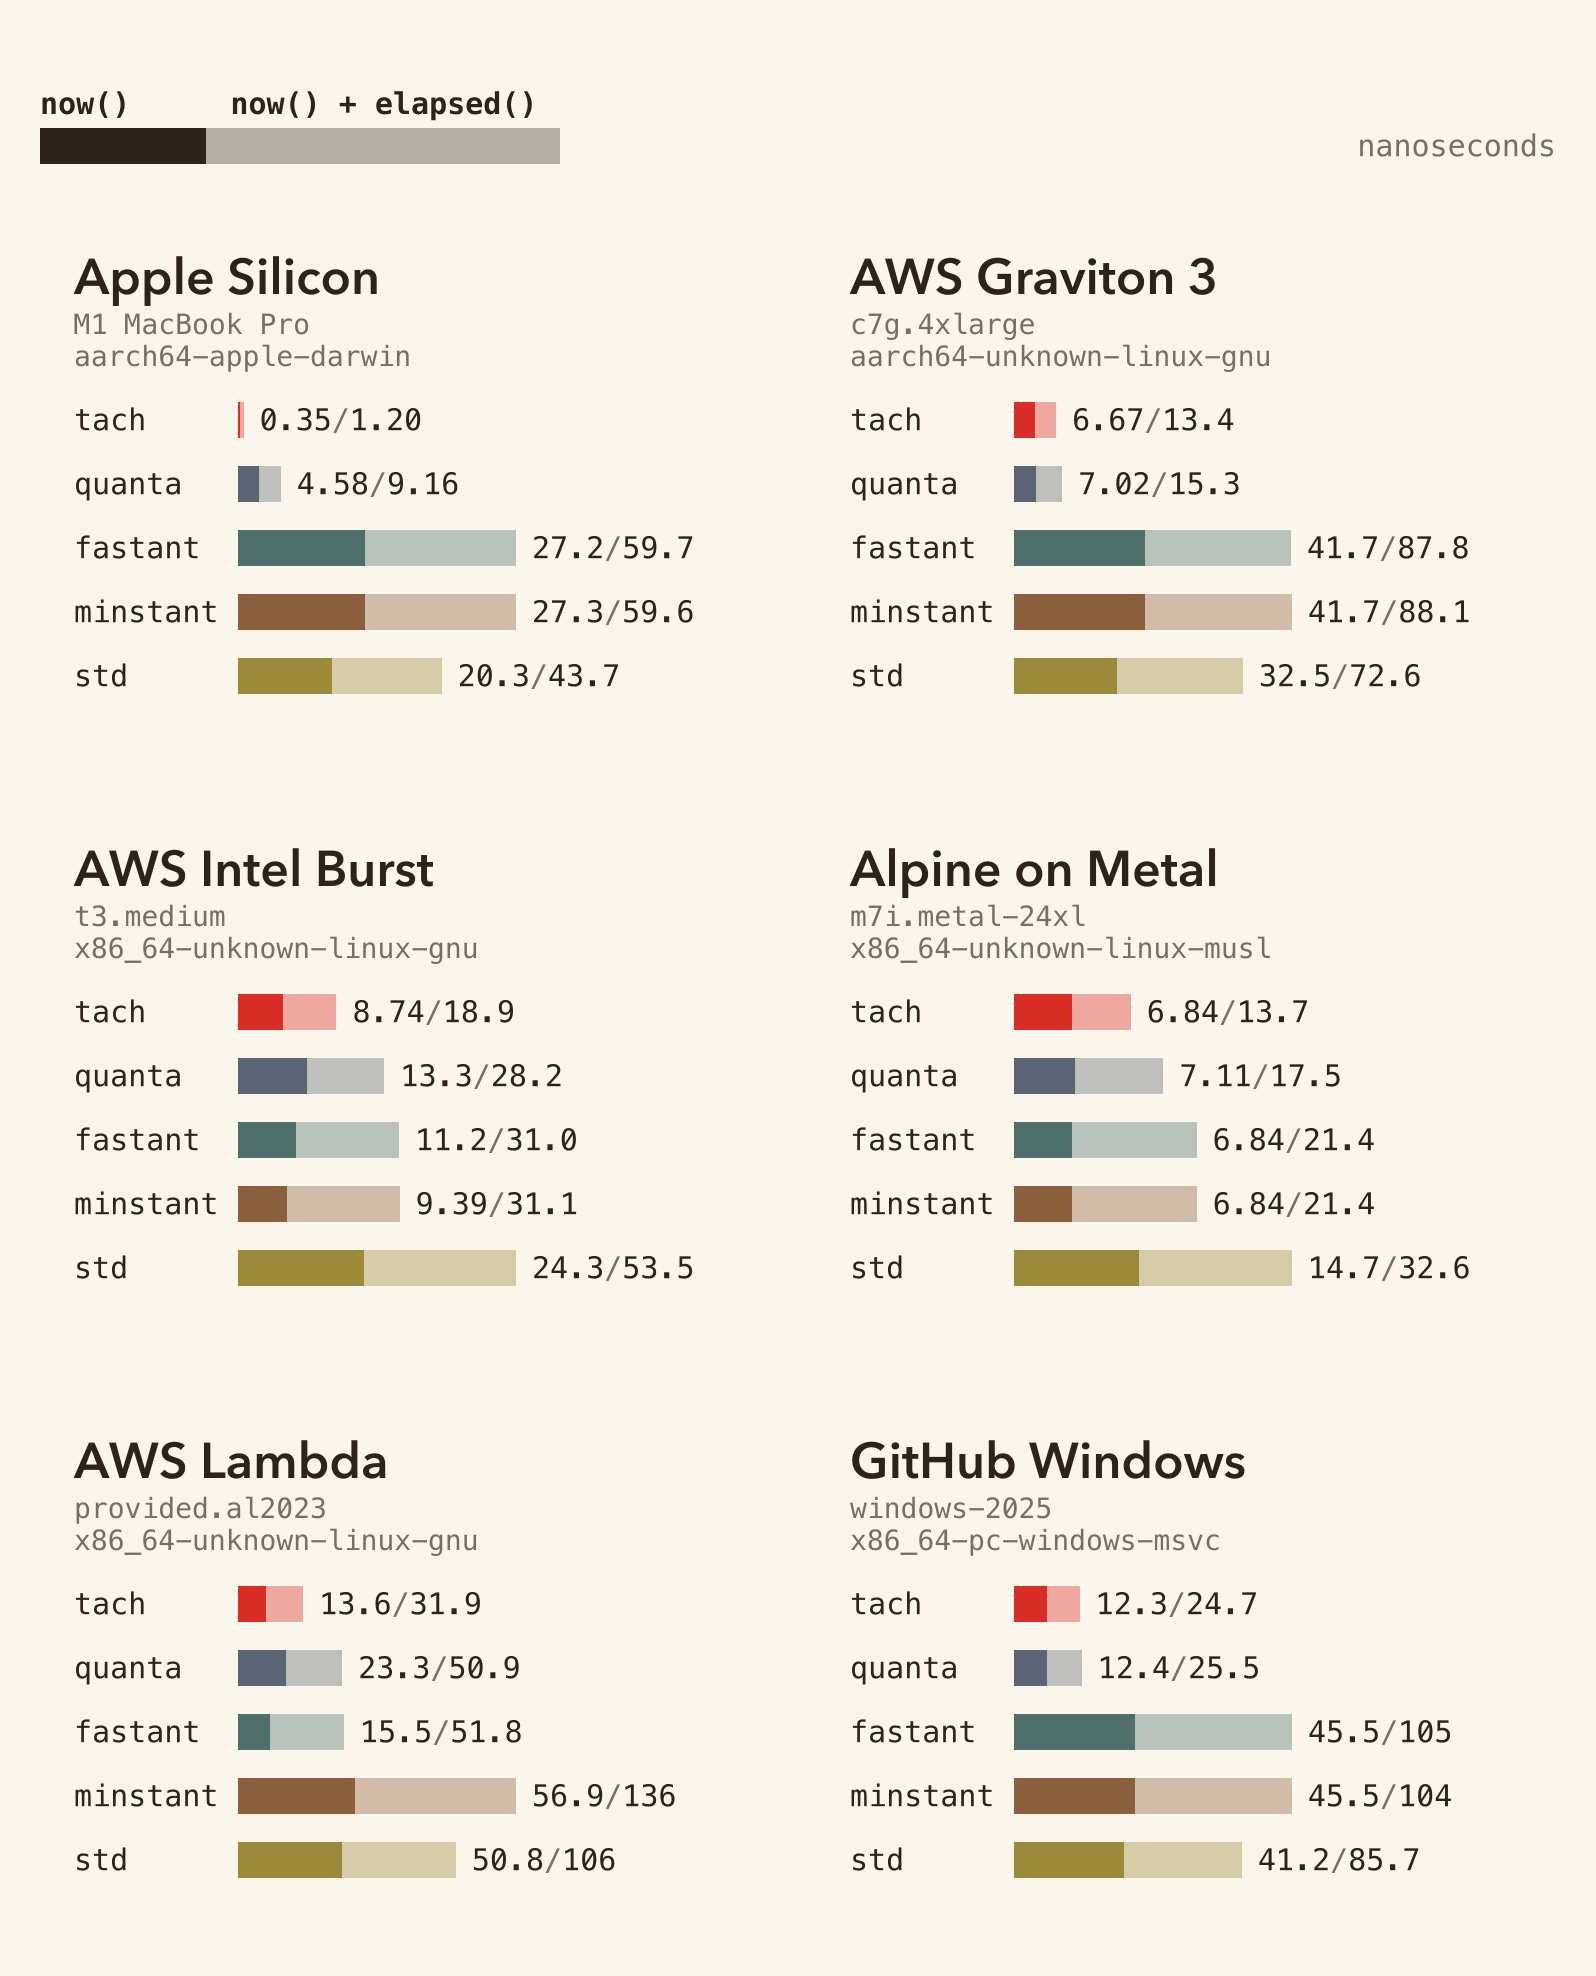
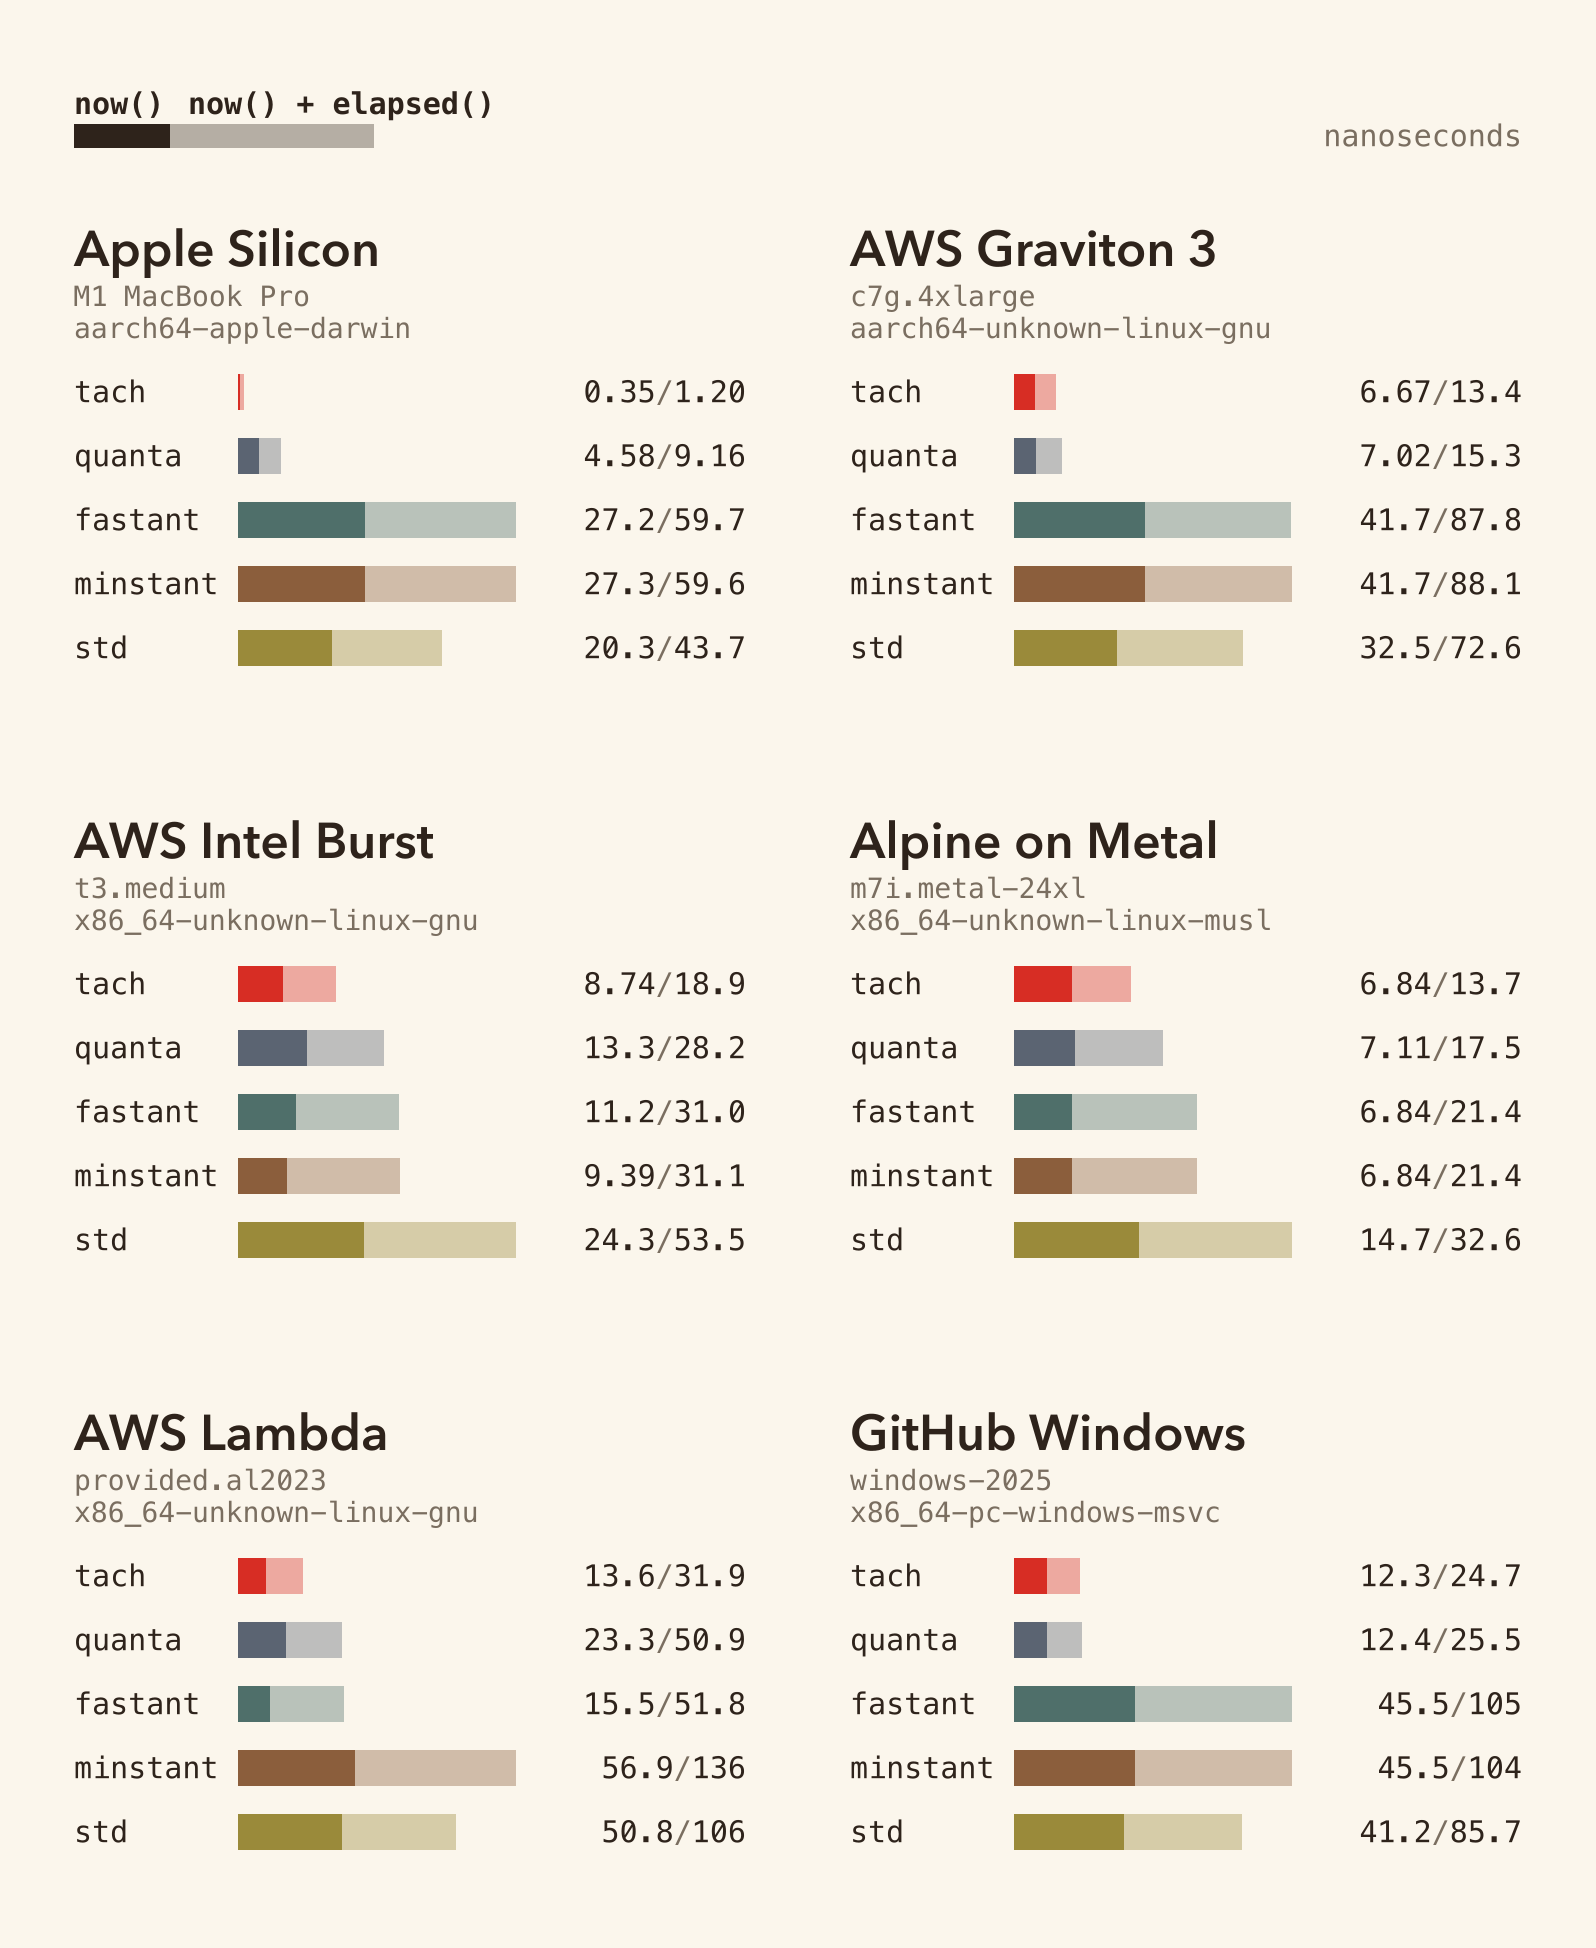
docs(benches): right-align metric values, align legend to cell content edges
- Values right-aligned to the cell content right edge so the
  numeric column lines up across all rows.
- Header "now()" label and "nanoseconds" right edge now align
  with the cell-content margins (not the outer SVG margin).
- Legend sample bar shrunk: 520x36 -> 300x24.

diff --git a/benches/assets/render_benchmark.py b/benches/assets/render_benchmark.py
@@ -243,12 +243,12 @@ GRID_CRATE_LABEL_WIDTH = 156
 GRID_VALUE_RESERVE = 230
 GRID_LIGHTEN = 0.62
 
-GRID_HEADER_HEIGHT = 140
-GRID_HEADER_GAP = 32
-GRID_HEADER_BAR_WIDTH = 520
-GRID_HEADER_BAR_HEIGHT = 36
+GRID_HEADER_HEIGHT = 120
+GRID_HEADER_GAP = 24
+GRID_HEADER_BAR_WIDTH = 300
+GRID_HEADER_BAR_HEIGHT = 24
 GRID_HEADER_DARK_FRACTION = 0.32
-GRID_HEADER_LABEL_GAP = 14
+GRID_HEADER_LABEL_GAP = 10
 
 
 def lighten(hex_color: str, amount: float) -> str:
@@ -342,9 +342,9 @@ def render_grid_cell(now_group, elapsed_group, crates, x0: float, y0: float) -> 
       f'width="{now_w:g}" height="{GRID_BAR_HEIGHT}" fill="{color}"/>'
     )
 
-    value_x = bar_area_left + elapsed_w + 16
+    value_x = x0 + GRID_CELL_W - GRID_CELL_PAD
     parts.append(
-      f'<text x="{value_x:g}" y="{text_baseline:g}" text-anchor="start" '
+      f'<text x="{value_x:g}" y="{text_baseline:g}" text-anchor="end" '
       f'font-family="{MONO}" font-size="{GRID_VALUE_FONT_SIZE}" fill="{TEXT_FG}">'
       f'{esc(value_label(now_v))}'
       f'<tspan fill="{MUTED_FG}"> / </tspan>'
@@ -356,8 +356,10 @@ def render_grid_cell(now_group, elapsed_group, crates, x0: float, y0: float) -> 
 
 def render_grid_header(width: float, y0: float) -> list[str]:
   parts = []
-  bar_x = GRID_MARGIN
-  bar_y = y0 + GRID_HEADER_HEIGHT - GRID_HEADER_BAR_HEIGHT - 16
+  content_left = GRID_MARGIN + GRID_CELL_PAD
+  content_right = width - GRID_MARGIN - GRID_CELL_PAD
+  bar_x = content_left
+  bar_y = y0 + GRID_HEADER_HEIGHT - GRID_HEADER_BAR_HEIGHT - 12
   dark_color = TEXT_FG
   light_color = lighten(dark_color, 0.66)
   dark_w = GRID_HEADER_BAR_WIDTH * GRID_HEADER_DARK_FRACTION
@@ -380,7 +382,7 @@ def render_grid_header(width: float, y0: float) -> list[str]:
   )
   parts.append(
     styled_text(
-      bar_x + dark_w + 24, label_baseline, "now() + elapsed()",
+      bar_x + dark_w + 18, label_baseline, "now() + elapsed()",
       GRID_LABEL_FONT_SIZE, family=MONO, anchor="start", weight="600",
     )
   )
@@ -388,7 +390,7 @@ def render_grid_header(width: float, y0: float) -> list[str]:
   unit_baseline = bar_y + GRID_HEADER_BAR_HEIGHT / 2 + GRID_LABEL_FONT_SIZE * 0.34
   parts.append(
     styled_text(
-      width - GRID_MARGIN, unit_baseline, "nanoseconds",
+      content_right, unit_baseline, "nanoseconds",
       GRID_LABEL_FONT_SIZE, family=MONO, anchor="end", color=MUTED_FG,
     )
   )
